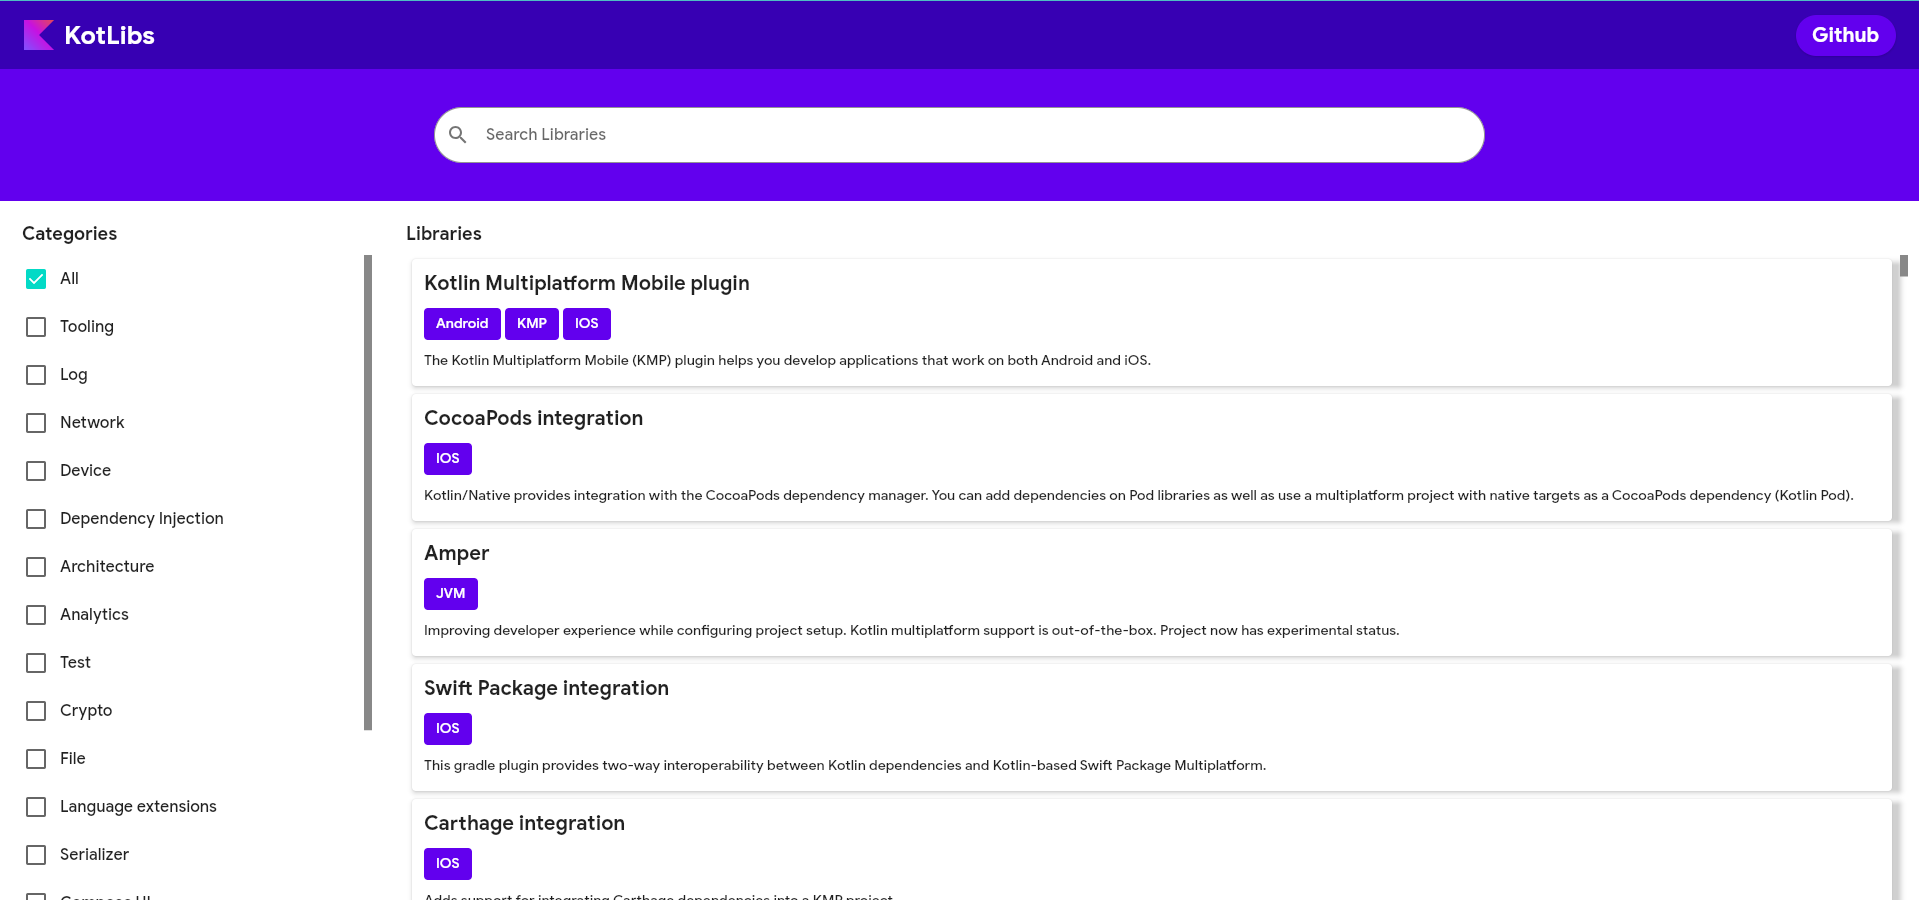
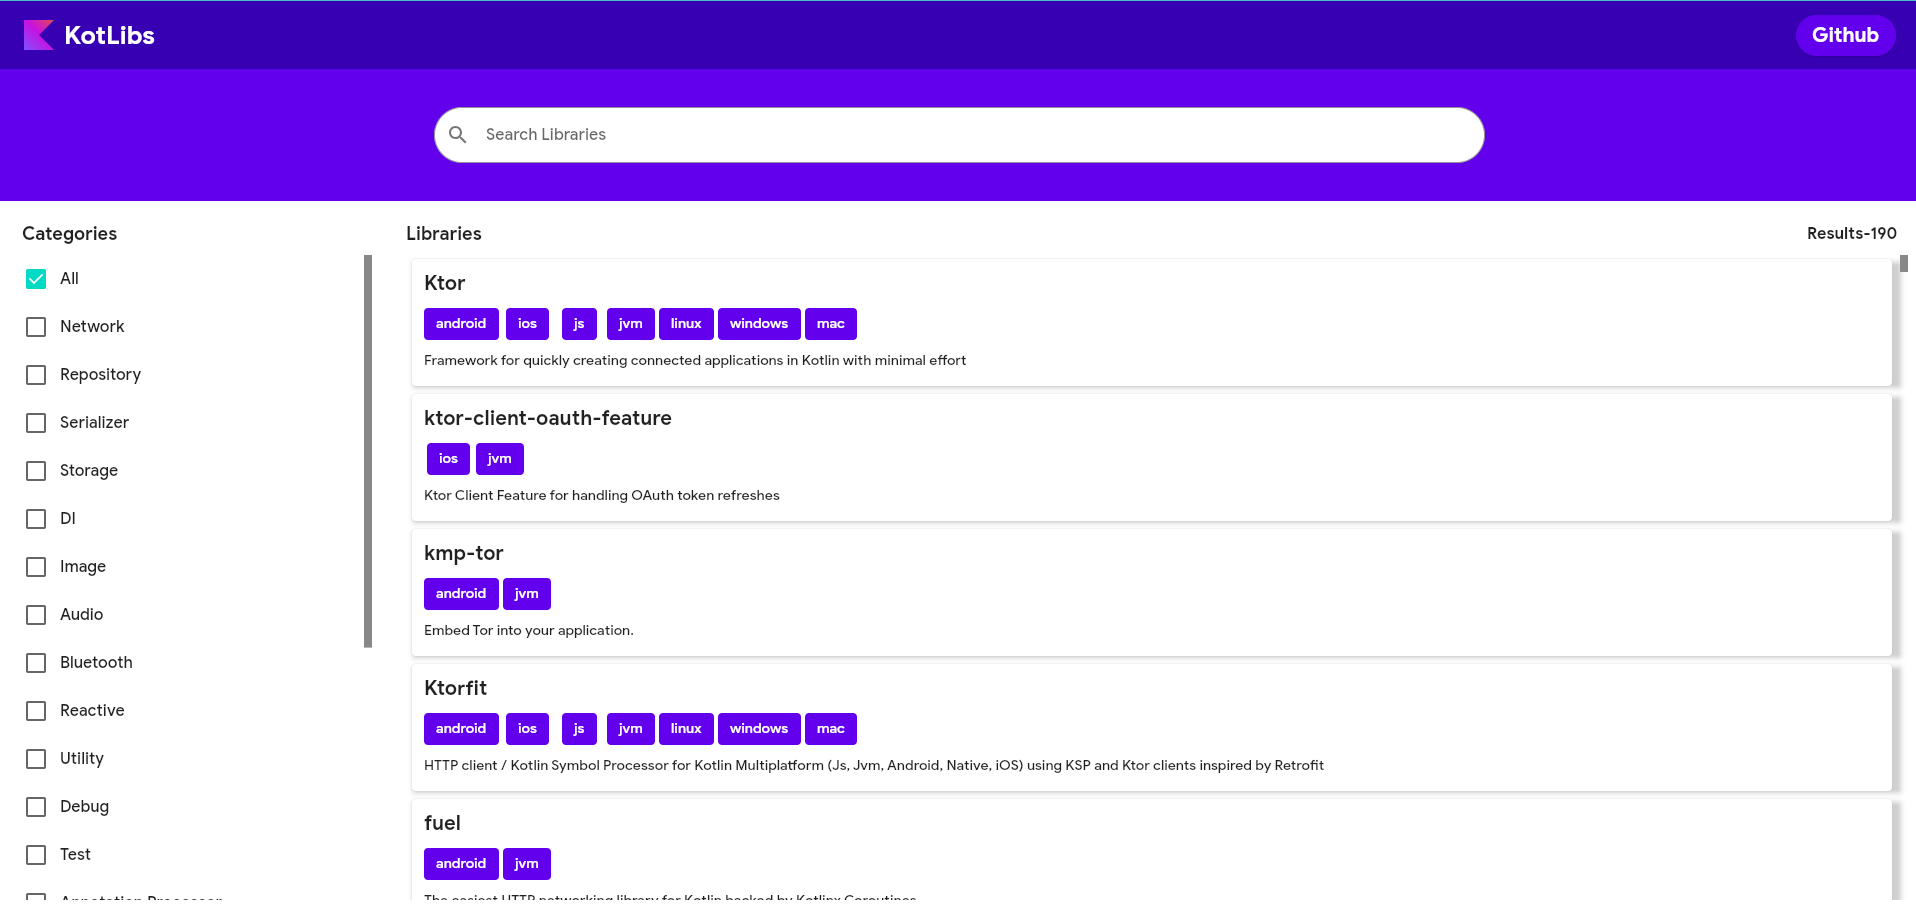
New Version - Minor Fixes and Some Improvements

diff --git a/composeApp/src/wasmJsMain/kotlin/ui/RepoHomePage.kt b/composeApp/src/wasmJsMain/kotlin/ui/RepoHomePage.kt
@@ -102,7 +102,7 @@ class RepoHomePage : Screen {
                                 onClick = {
                                     Utils.openInNewTab("https://github.com/iammohdzaki/KotLibs")
                                 }
-                            ){
+                            ) {
                                 Text(
                                     text = Strings.GITHUB,
                                     style = Styles.TextStyleSemiBold(20.sp),
@@ -155,12 +155,24 @@ class RepoHomePage : Screen {
                             modifier = Modifier.weight(0.8f)
                                 .padding(12.dp)
                         ) {
-                            Text(
-                                text = Strings.Libraries,
-                                style = Styles.TextStyleBold(18.sp),
-                                fontWeight = FontWeight.Bold,
-                                modifier = Modifier.padding(start = 10.dp, top = 10.dp)
-                            )
+                            Row(
+                                modifier = Modifier.fillMaxWidth(),
+                                horizontalArrangement = Arrangement.SpaceBetween,
+                                verticalAlignment = Alignment.CenterVertically
+                            ) {
+                                Text(
+                                    text = Strings.Libraries,
+                                    style = Styles.TextStyleBold(18.sp),
+                                    fontWeight = FontWeight.Bold,
+                                    modifier = Modifier.padding(start = 10.dp, top = 10.dp)
+                                )
+                                Text(
+                                    text = "${Strings.RESULTS}-${repos.size}",
+                                    style = Styles.TextStyleBold(16.sp),
+                                    fontWeight = FontWeight.Bold,
+                                    modifier = Modifier.padding(end = 10.dp, top = 10.dp)
+                                )
+                            }
                             Spacer(modifier = Modifier.size(10.dp))
                             LazyColumn(
                                 modifier = Modifier.verticalScrollbar(state = libScrollState).fillMaxWidth(),

diff --git a/composeApp/src/wasmJsMain/kotlin/ui/KotLibViewModel.kt b/composeApp/src/wasmJsMain/kotlin/ui/KotLibViewModel.kt
@@ -36,8 +36,8 @@ class KotLibViewModel : KMMViewModel(), KoinComponent {
     init {
         isLoadingData.value = true
         viewModelScope.coroutineScope.launch {
-            delay(1000)
-            _repoData.value = kotLibApi.getReposData()
+            delay(100)
+            _repoData.value = kotLibApi.getReposDataV2()
             _repoData.value?.let { it ->
                 _categories.value = it.categories
                 _repoList.value = it.repos

diff --git a/composeApp/src/wasmJsMain/kotlin/remote/KotLibApi.kt b/composeApp/src/wasmJsMain/kotlin/remote/KotLibApi.kt
@@ -10,5 +10,6 @@ class KotLibApi(
     private val client: HttpClient,
     private val reposUrl: String = BuildKonfig.REPOS_URL
 ) {
-    suspend fun getReposData() = client.get(reposUrl).body<RepoData>()
+    suspend fun getReposData() = client.get("$reposUrl/repos.json").body<RepoData>()
+    suspend fun getReposDataV2() = client.get("$reposUrl/repos_v2.json").body<RepoData>()
 }

diff --git a/composeApp/src/wasmJsMain/kotlin/theme/Strings.kt b/composeApp/src/wasmJsMain/kotlin/theme/Strings.kt
@@ -5,5 +5,6 @@ object Strings {
     const val APP_DES = "A KMP Libraries Listing"
     const val CATEGORIES = "Categories"
     const val Libraries = "Libraries"
+    const val RESULTS = "Results"
     const val GITHUB = "Github"
 }

diff --git a/composeApp/src/wasmJsMain/kotlin/data/Repository.kt b/composeApp/src/wasmJsMain/kotlin/data/Repository.kt
@@ -8,6 +8,5 @@ data class Repository(
     val name: String,
     val url: String,
     val description: String,
-    val stars: String?,
     val tags: List<String>
 )
